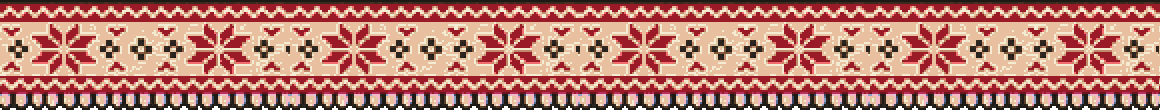
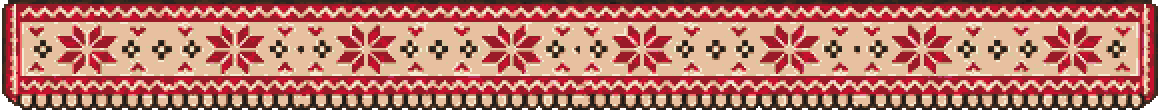
Løper og flagg som 2×6-pakker, med ferdige sidekanter
- Strikket løper og flagg i snor tar 2×6 ruter under disken og i kartongen;
  pakkebildet er snudd 90° (d15/d16-...-pakke.png), fronten og Dekoringen viser dem som før
- Ved oppstart settes pyntepakker som ikke lenger får plass der de ligger, innpakket ved boden
- Ny løper og flaggsnor med ferdige sidekanter (tools/dekor-itemstil.py)

diff --git a/shared/decor.ts b/shared/decor.ts
@@ -60,6 +60,7 @@ export interface Decor {
   w: number; // bodpiksler
   h: number;
   pack: { w: number; h: number }; // pakken i rutenettet
+  packFile?: string; // eget pakkebilde under disken (løper og flagg: snudd 90°, rullet sammen i en høy pakke)
   blurb: string;
   glow?: string; // lyslag (samme lerret) som lyser når det er mørkt
   flame?: boolean; // fakkelflamme (d24b-flamme-ark.png) over fakkelen
@@ -98,8 +99,8 @@ export const DECOR: Decor[] = [
   d('granbar_hoyre', 'Granbar rundt stolpen (h.)', '🌲', 89, 'stolpe', 'd12-granbar-hoyre.png', 60, 230, [1, 3], 'Snor seg rundt stolpen.'),
   d('krans_kongler', 'Stor krans med kongler', '🎄', 249, 'panel', 'd13-krans-kongler.png', 180, 180, [3, 3], 'Stor krans med kongler og bær. Fyller et sidepanel.'),
   d('rosemalt_plate', 'Rosemalt plate', '🌸', 229, 'panel', 'd14-rosemalt-plate.png', 220, 150, [3, 2], 'Håndmalt plate med roser i kantene.'),
-  d('strikket_loper', 'Strikket løper', '🧶', 299, 'kant', 'd15-strikket-loper.png', 1160, 110, [3, 1], 'Lusekoftemønster over hele diskkanten.'),
-  d('flagg', 'Flagg i snor', '🇳🇴', 129, 'kant', 'd16-flagg.png', 1160, 60, [2, 1], 'Små norske flagg langs kanten.'),
+  d('strikket_loper', 'Strikket løper', '🧶', 299, 'kant', 'd15-strikket-loper.png', 1160, 110, [2, 6], 'Lusekoftemønster over hele diskkanten.', { packFile: 'd15-strikket-loper-pakke.png' }),
+  d('flagg', 'Flagg i snor', '🇳🇴', 129, 'kant', 'd16-flagg.png', 1160, 60, [2, 6], 'Små norske flagg langs kanten.', { packFile: 'd16-flagg-pakke.png' }),
   d('skinnfell', 'Skinnfell', '🐑', 199, 'kant', 'd17-skinnfell.png', 200, 140, [2, 2], 'Lunt og mykt over hjørnet av disken.', { dy: -50 }),
   d('juletre_botte', 'Juletre i bøtte', '🎄', 349, 'bakke', 'd18-juletre-botte.png', 160, 280, [2, 4], 'Et lite tre i sinkbøtte.'),
   d('halmbukk', 'Julebukk i halm', '🐐', 299, 'bakke', 'd19-halmbukk.png', 150, 160, [3, 3], 'Stor halmbukk med røde bånd.'),

diff --git a/server/game.ts b/server/game.ts
@@ -905,6 +905,18 @@ export function migrate() {
     // Telefonen er spillerens og vises alltid nede i høyre hjørne: den er ikke lenger en ting i lageret.
     const phones = db.prepare('DELETE FROM items WHERE type_id = ?').run(PHONE).changes;
     if (Number(phones) > 0) console.log(`Tok ${phones} telefoner ut av lagrene (telefonen ligger nå i hjørnet).`);
+    // Pyntepakker som har fått ny størrelse (løper og flagg er 2×6): får de ikke lenger plass der de ligger
+    // (under disken, på bordet eller i kartongen), settes de innpakket ved boden.
+    for (const s of all<StallRow>(db.prepare('SELECT * FROM stalls'))) {
+      const items = itemsOf(s.id);
+      for (const it of items.filter((i) => decorOfPack(i.typeId) && ['storage', 'counter', 'box'].includes(i.place))) {
+        const g = gridOf(items, streetOf(s.id), it.place, it.boxId);
+        if (g && fits(it, itemsIn(items, it.place, it.boxId), g, (o) => o.id === it.id)) continue;
+        db.prepare("UPDATE items SET place = 'ground', box_id = NULL, x = 0, y = 0 WHERE id = ?").run(it.id);
+        it.place = 'ground';
+        it.boxId = null;
+      }
+    }
     for (const s of all<StallRow>(db.prepare('SELECT * FROM stalls'))) giveStarterCar(s.id);
     for (const s of all<StallRow>(db.prepare('SELECT * FROM stalls'))) giveStarterFusebox(s.id);
     // Sikringsbokser fra før skrusikringene ble gjenstander: gi plassene sikringer.

diff --git a/shared/products.ts b/shared/products.ts
@@ -1145,7 +1145,7 @@ export const DECOR_PACKS: Tool[] = DECOR.map((d) => ({
   id: decorPackOf(d.id),
   name: d.name,
   emoji: d.emoji,
-  image: `/art/bodfront/${d.file}`,
+  image: `/art/bodfront/${d.packFile ?? d.file}`,
   price: d.price,
   size: d.pack,
   blurb: 'Trykk på den for å henge den opp på fronten av boden.',

diff --git a/tools/dekor-itemstil.py b/tools/dekor-itemstil.py
@@ -127,6 +127,9 @@ def main():
                 c=Image.new('RGBA',im.size,'#333c48');c.alpha_composite(im)
                 bg.append(c.convert('RGB').resize((96,192),Image.Resampling.NEAREST))
             bg[0].save(CONTROL/'flamme.gif',save_all=True,append_images=bg[1:],duration=120,loop=0)
+        elif job.get('finishedStrip'):
+            result=Image.new('RGBA',ref.size)
+            result.alpha_composite(prepared(source,(ref.width-4,ref.height)),(2,0))
         elif name=='d15-strikket-loper.png': result=strip(source,ref,4)
         elif name=='d16-flagg.png': result=strip(source,ref,10)
         else: result=place(source,ref)
@@ -150,7 +153,7 @@ def main():
         palette={tuple(bytes.fromhex(color.lstrip('#'))) for color in palette}
         for item in checks:
             assert item['size']==list(Image.open(OLD/item['file']).size)
-            if item['slot']!='animation': assert item['bbox']==item['previousBbox'],item
+            if item['slot']!='animation' and item['file'] not in ['d15-strikket-loper.png','d16-flagg.png']: assert item['bbox']==item['previousBbox'],item
             im=Image.open(OUT/item['file']).convert('RGBA')
             alpha=np.asarray(im.getchannel('A'))
             assert set(np.unique(alpha)).issubset({0,255}),item['file']
@@ -172,7 +175,10 @@ def main():
         manifest=json.loads((BASE/'leveranse.json').read_text(encoding='utf-8'))
         manifest['method']='Built-in image_gen with earlier item references; pixelify warm palette and crisp pixel grid; original sizes and anchor bounds preserved'
         manifest['styleReferences']=['client/public/art/goods/trenisse.png','GFX_assets/ChatGPT/nye-varer-julepynt-oversikt.jpg']
-        manifest['checks']['previousDimensionsAndAnchorBoundsPreserved']=True
+        manifest['checks'].pop('previousDimensionsAndAnchorBoundsPreserved',None)
+        manifest['checks'].pop('flagStripExactSeam',None)
+        manifest['checks']['previousDimensionsAndAttachmentEdgesPreserved']=True
+        manifest['checks']['finishedSideEdgesOnRunnerAndFlags']=True
         manifest['checks']['opaqueSpritesUseCanonicalWarmPalette']=True
         (BASE/'leveranse.json').write_text(json.dumps(manifest,ensure_ascii=False,indent=2),encoding='utf-8')
         (STAGE/'levert.json').write_text(json.dumps({'date':'2026-11-24','style':'Earlier item references, warm palette and crisp pixel grid','files':len(files)},ensure_ascii=False,indent=2),encoding='utf-8')
